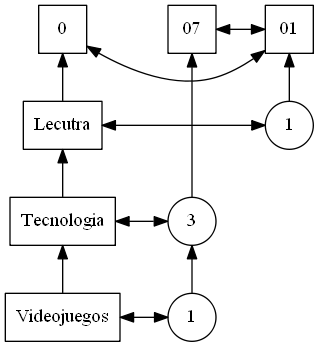
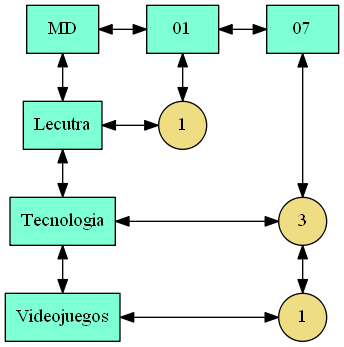
Matriz Dispersa

diff --git a/Matriz Dispersa/main.go b/Matriz Dispersa/main.go
@@ -243,6 +243,7 @@ func leer() {
 	}
 	//Enlistar solo Productos
 	for i := 0; i < len(c.Pedidos); i++ {
+		//fmt.Println(strconv.Itoa(i))
 		for j := 0; j < len(c.Pedidos[i].Productos); j++ {
 			Produc := c.Pedidos[i].Productos[j]
 			Producto := new(Producto)
@@ -323,7 +324,8 @@ func Estructurar() {
 			var departamentos []string
 			existeDep := false
 			nodo0 := new(NODO)
-			nodo0.Nombre = "0"
+			nodo0.Nombre = "MD"
+			nodo0.Tipo = "Dia"
 			auxM.Nodos = append(auxM.Nodos, *nodo0)
 			for i := 0; i < len(auxM.Productos); i++ {
 				for j := 0; j < len(dias); j++ {
@@ -460,26 +462,34 @@ func Estructurar() {
 				a := strings.ReplaceAll(auxM.Nodos[i].Nombre, " ", "_")
 				//si es un nodo con cola
 				if auxM.Nodos[i].Cola.Tamanio != 0 {
-					cadena += "nodo" + a + " [label=\"" + strconv.Itoa(auxM.Nodos[i].Cola.Tamanio) + "\" shape=circle]\n"
+					cadena += "nodo" + a + " [label=\"" + strconv.Itoa(auxM.Nodos[i].Cola.Tamanio) + "\" shape=circle fillcolor=lightgoldenrod]\n"
 				} else {
-					cadena += "nodo" + a + " [label=\"" + auxM.Nodos[i].Nombre + "\"]\n"
+					cadena += "nodo" + a + " [label=\"" + auxM.Nodos[i].Nombre + "\" fillcolor=aquamarine]\n"
 				}
 				if auxM.Nodos[i].Arriba != nil {
 					b := strings.ReplaceAll(auxM.Nodos[i].Arriba.Nombre, " ", "_")
-					cadena += "nodo" + a + "->nodo" + b + " dir=both\n"
+					cadena += "nodo" + a + "->nodo" + b + " [dir=both]\n"
 				}
 				if auxM.Nodos[i].Abajo != nil {
 					b := strings.ReplaceAll(auxM.Nodos[i].Abajo.Nombre, " ", "_")
-					cadena += "nodo" + a + "->nodo" + b + " dir=both\n"
+					cadena += "nodo" + a + "->nodo" + b + " [dir=both]\n"
 				}
 				if auxM.Nodos[i].Derecha != nil {
 					b := strings.ReplaceAll(auxM.Nodos[i].Derecha.Nombre, " ", "_")
-					cadena += "nodo" + a + "->nodo" + b + " [constraint=false; dir=both]\n"
+					if auxM.Nodos[i].Derecha.Tipo != "Dia" {
+						cadena += "nodo" + b + "->nodo" + a + " [constraint=false; dir=both]\n"
+					} else {
+						cadena += "nodo" + b + "->nodo" + a + "  [dir=both]\n"
+					}
 					cadena1 += "{ rank=same; " + "nodo" + a + "; nodo" + b + "; }\n"
 				}
 				if auxM.Nodos[i].Izquierda != nil {
 					b := strings.ReplaceAll(auxM.Nodos[i].Izquierda.Nombre, " ", "_")
-					cadena += "nodo" + a + "->nodo" + b + " [constraint=false; dir=both]\n"
+					if auxM.Nodos[i].Izquierda.Tipo != "Dia" {
+						cadena += "nodo" + b + "->nodo" + a + " [constraint=false; dir=both]\n"
+					} else {
+						cadena += "nodo" + b + "->nodo" + a + " [dir=both]\n"
+					}
 					cadena1 += "{ rank=same; " + "nodo" + b + "; nodo" + a + ";}\n "
 				}
 				if auxM.Nodos[i].Tipo == "Dia" {
@@ -487,7 +497,7 @@ func Estructurar() {
 				}
 			}
 			rankdir += "}"
-			cadena = "digraph {\nrankdir = BT;\nnode [shape=rectangle, height=0.5, width=0.5];\ngraph[ nodesep = 0.5];\n" +
+			cadena = "digraph {\nrankdir = BT;\nnode [shape=rectangle style=filled];\ngraph[ nodesep = 0.5];\n" +
 				cadena1 + cadena + rankdir + "\n }"
 			//se escribe el archivo dot
 			b := []byte(cadena)
@@ -505,6 +515,7 @@ func Estructurar() {
 		}
 		auxA = auxA.Siguiente
 	}
+
 }
 
 func main() {
